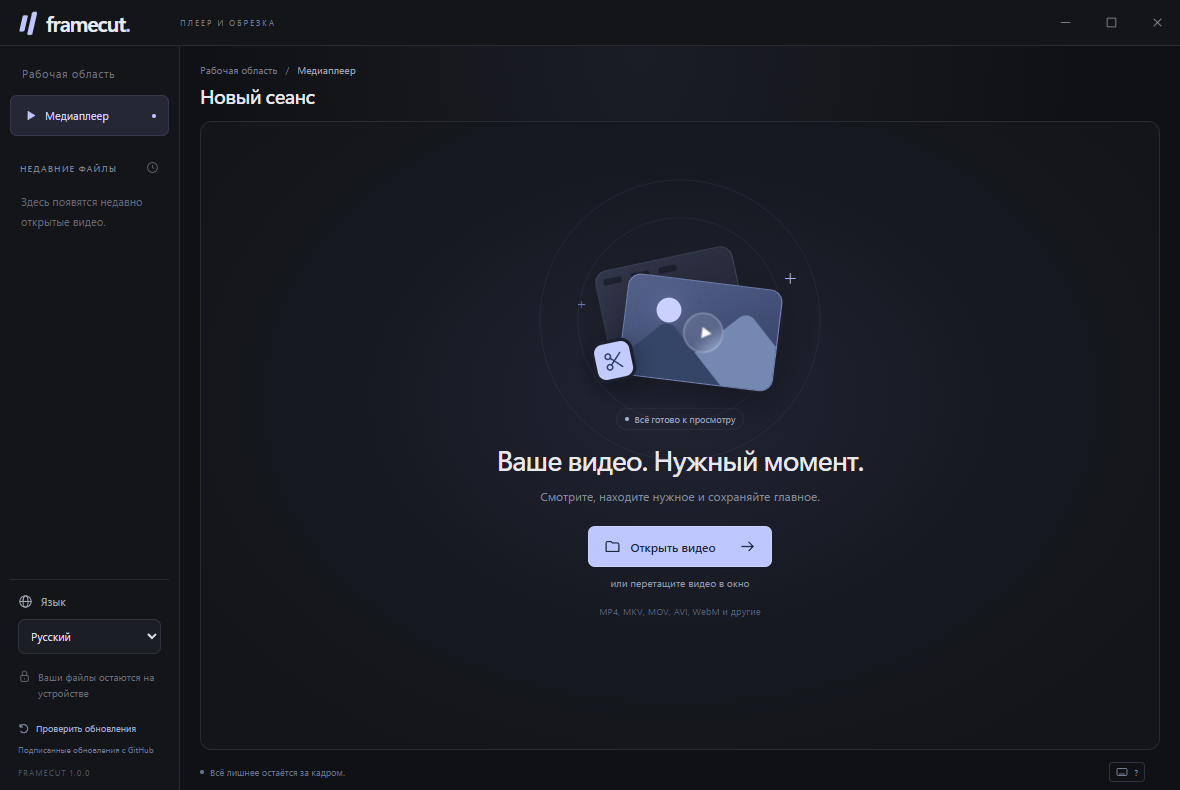
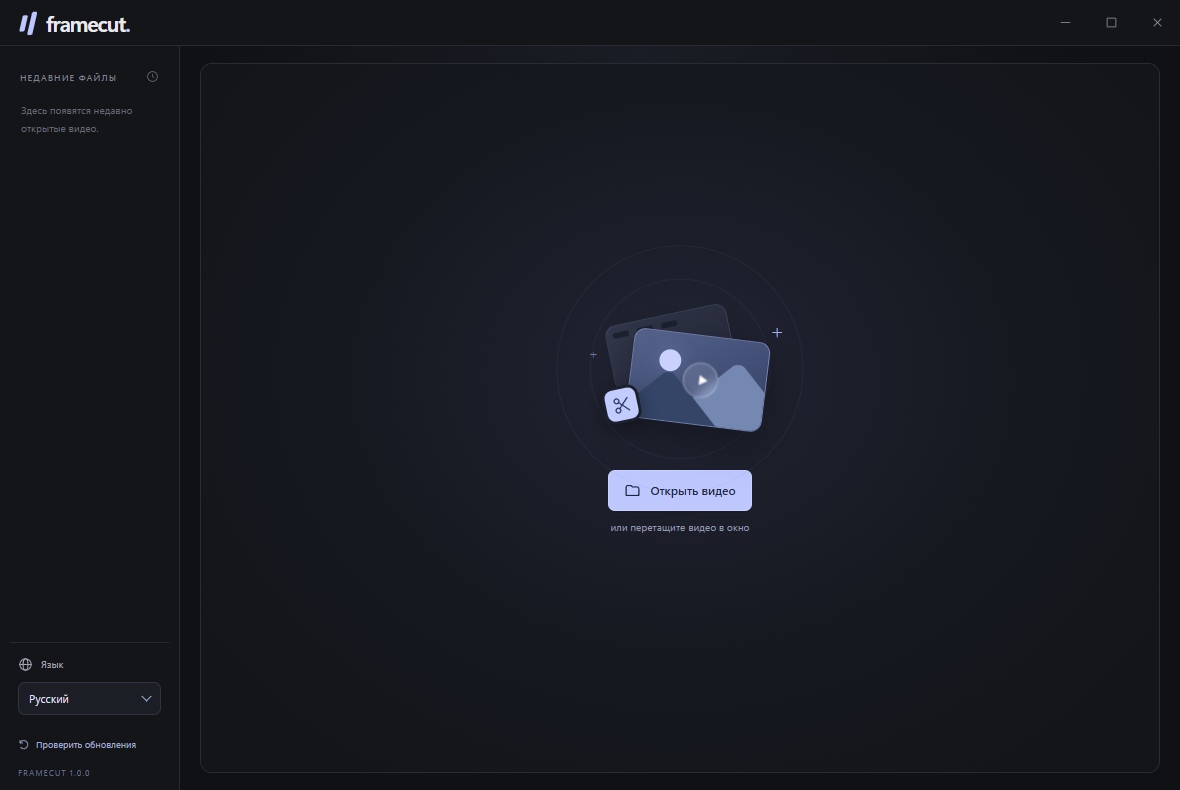
Compact editing toolbar, default fast cut and safe source overwrite

diff --git a/src/renderer/styles.css b/src/renderer/styles.css
@@ -20,3 +20,9 @@ body.fullscreen .titlebar,body.fullscreen .sidebar,body.fullscreen .workspace-he
 .titlebar{height:46px}.titlebar .brand{font-size:21px;width:180px;padding-left:20px}.brand-mark{transform:scale(.86) skew(-13deg)}.titlebar-caption{font-size:8px;letter-spacing:1.8px}.app-layout{height:calc(100vh - 46px);grid-template-columns:180px 1fr}.sidebar{padding:20px 10px 12px}.main{padding:17px 20px 8px;gap:12px}.workspace-header h1{font-size:20px}.breadcrumb{margin-bottom:6px}.workspace-grid{grid-template-columns:minmax(0,1fr) 250px;gap:12px;min-height:270px}.trim-panel{padding:16px 14px;scrollbar-gutter:stable}.trim-heading{margin-bottom:16px}.trim-heading h2{font-size:14px}.trim-heading p{display:none}.trim-icon{width:29px;height:29px;border-radius:7px}.time-field{margin-bottom:9px}.time-field label{margin-bottom:5px}.time-input-wrap input{padding:8px 10px;font-size:12px}.duration-row{padding:1px 0 12px}.mode-option{padding:6px 0}.mode-option small{margin-top:3px}.mode-option strong{font-size:11px}#mode-fields{margin-top:15px}.export-area{padding-top:15px}.export-area p{margin-top:8px;font-size:8px;line-height:1.55}.export-button{min-height:36px;font-size:11px;white-space:normal}.timeline-panel{padding:11px 14px 10px}.timeline-track{height:42px}.timeline-ruler{margin:9px 7px 7px}.timeline-footer{margin-top:9px}.timeline-heading .button{min-height:27px}.transport{padding:10px 14px}.transport-row{margin-top:8px}.empty-state h2{font-size:24px}.empty-visual{height:132px;transform:scale(.9);margin:0 0 10px}.formats{margin-top:15px}.empty-description{max-width:360px;margin-bottom:20px}.sidebar-bottom{padding-top:14px}.privacy-note{margin-top:15px}.app-version{margin:10px 0 0;font-size:8px;letter-spacing:1px}.recent-section{margin-top:25px}.drop-overlay{top:46px}.statusbar{margin-top:-6px;min-height:20px}.empty .trim-panel,.empty .timeline-panel,.empty .transport,.empty #open-top{display:none}.empty .workspace-grid{grid-template-columns:1fr}.empty .player-shell{max-height:none}.empty .stage{min-height:300px}.empty .empty-visual{transform:scale(1.08);margin-bottom:22px}.empty .ready-pill{display:flex}.empty .empty-state h2{font-size:28px}.empty .empty-description{font-size:12px;max-width:500px}.empty .statusbar{margin-top:0}.update-control{display:flex;align-items:center;gap:3px;margin-top:15px}.update-button{display:flex;align-items:center;gap:6px;background:transparent;color:#a0acc9;font-size:9px;line-height:1.5;text-align:left;padding:6px 0}.update-button svg{width:12px;height:12px}.update-button.available{color:#ccd7ff;font-weight:600}.update-button.available svg{color:#d5defd}.update-button:hover{color:#e2eaff}.update-description{font-size:8px;line-height:1.6;color:#697793;margin-top:3px}.update-control .icon-button{width:20px;height:20px;margin-left:auto}.update-control .icon-button svg{width:11px;height:11px}#update-progress{height:3px;margin:5px 0}
 @media(max-height:720px){.main{padding-top:12px;gap:10px}.workspace-header h1{font-size:18px}.workspace-grid{min-height:235px}.trim-panel{padding-top:12px;padding-bottom:12px}.trim-heading{margin-bottom:11px}legend.eyebrow{margin-bottom:9px;font-size:8px}.time-field label{font-size:9px}.time-input-wrap input{padding-top:6px;padding-bottom:6px}.duration-row{padding-bottom:9px}#mode-fields{margin-top:10px}.mode-option{padding:4px 0}.mode-option small{font-size:8px}.export-area{padding-top:11px}.timeline-track{height:32px}.timeline-footer{font-size:8px}.fast-note{font-size:8px}.empty .empty-visual{transform:scale(.95);margin-bottom:15px}.privacy-note{font-size:9px}.update-control{margin-top:10px}}
 .play-button{appearance:none;padding:0;line-height:0;flex-shrink:0;display:grid;place-items:center}.play-button svg{display:block;width:20px;height:20px;margin:0;fill:currentColor;stroke:none}.play-button.playing svg{margin:0;fill:none;stroke:currentColor;stroke-width:2.4}
+.sr-only,#trim-fields legend{position:absolute;width:1px;height:1px;padding:0;margin:-1px;overflow:hidden;clip:rect(0,0,0,0);white-space:nowrap;border:0}.recent-section{margin-top:4px}.no-recent{font-size:10px;max-width:160px}.empty .workspace-header{display:none}.empty .empty-visual{transform:scale(.95);margin-bottom:35px}.empty .statusbar{display:none}.timeline-tag,.timeline-footer,.statusbar>span{display:none}.timeline-panel{padding-bottom:14px}.statusbar{position:absolute;right:20px;bottom:10px;min-height:0}.main{padding-bottom:33px}.empty .main{padding-bottom:17px}.trim-heading{margin-bottom:22px}.setting-row{display:flex;align-items:center;justify-content:space-between;gap:10px}.setting-row label{font-size:11px;color:#a5afc3}.setting-row select{min-width:100px;font-size:11px;padding:7px 10px}.save-options{display:flex;background:#12151c;border:1px solid #343b4c;border-radius:7px;padding:3px;margin-top:15px;gap:3px}.save-options label{position:relative;flex:1;min-width:0;text-align:center;cursor:pointer}.save-options input{position:absolute;opacity:0;inset:0;margin:0;cursor:pointer}.save-options span{font-size:10px;display:block;padding:8px 4px;border-radius:4px;color:#7e8ba7;white-space:nowrap}.save-options input:checked+span{background:#343e5b;color:#d8e2ff}.save-options input:focus-visible+span{outline:2px solid #aabaff;outline-offset:1px}.fast-note{padding:0;background:none;font-size:9px;color:#c1ab91;margin-top:9px}.export-area{padding-top:20px}.update-description:empty{display:none}.update-control{margin-top:17px}.language-label{font-size:10px}.section-label{font-size:9px}.app-version{color:#65718a}
+select,select::picker(select){appearance:base-select}select{display:flex;align-items:center;justify-content:space-between;gap:12px;transition:border-color .15s,background .15s}select:hover{border-color:#667399;background:#292f40}select:open{border-color:#a6baff;background:#252d43}select::picker-icon{content:'';display:block;width:6px;height:6px;border:solid #9caed6;border-width:0 1.5px 1.5px 0;transform:translateY(-2px) rotate(45deg);transition:transform .15s;margin-left:auto}select:open::picker-icon{transform:translateY(1px) rotate(225deg)}select::picker(select){background:#1d2330;border:1px solid #465372;border-radius:9px;box-shadow:0 10px 32px #0009;padding:4px;margin-top:5px;max-height:220px;min-width:anchor-size(width);color:#cbd7f0}select option{display:flex;align-items:center;gap:10px;min-height:31px;border-radius:5px;padding:7px 10px;background:transparent;font-size:11px;cursor:pointer;transition:background .12s}select option:hover,select option:focus{background:#303c58;color:#f0f4ff;outline:none}select option:checked{background:#364363;color:#e1e9ff}select option::checkmark{color:#bdceff;font-size:10px;order:1;margin-left:auto}#language{padding:8px 10px}#speed{width:61px;background:#252b39;border:1px solid #3c465d;border-radius:6px;padding:5px 8px;font-size:10px}#speed::picker(select){min-width:90px}.transport-row{gap:9px}
+.statusbar>span:first-child,.statusbar #metadata{display:none}
+.workspace-grid{display:block;min-height:240px}.player-shell{height:100%}.timeline-panel{padding:11px 14px 12px}.edit-bar{display:flex;align-items:flex-end;justify-content:space-between;gap:14px;margin-top:13px;padding-top:12px;border-top:1px solid #2b3343}#trim-fields{display:flex;align-items:flex-end;gap:12px;flex-shrink:0}.edit-bar .time-field{margin:0;width:143px}.edit-bar .time-field label{font-size:9px;margin-bottom:5px}.edit-bar .time-input-wrap input{font-size:11px;letter-spacing:0;padding:8px 7px}.edit-bar .mark-button{width:25px;height:27px}.edit-bar .mark-button svg{width:14px;height:14px}.clip-duration{font:10px Consolas,monospace;color:#8e9dbb;align-self:center;margin-top:15px;font-weight:400}.save-controls{display:flex;align-items:center;gap:9px;flex-shrink:0}#mode-fields{margin:0}#cut-mode{min-width:88px;padding:9px 9px;font-size:10px;height:35px}.save-cluster{display:flex;align-items:stretch;gap:0}.save-cluster #save-mode{border-radius:6px 0 0 6px;min-width:126px;font-size:10px;padding:9px 10px;border-right:0;background:#252d40;height:35px}.save-cluster .button{border-radius:0 6px 6px 0;min-height:35px;height:35px;font-size:11px;padding:8px 13px;min-width:117px;transform:none}.save-cluster .button svg{width:14px;height:14px}.save-cluster #save-mode:open{border-color:#a6baff}.transport-row{justify-content:center;position:relative}.playback-buttons{margin-right:0;position:absolute;left:50%;transform:translateX(-50%)}.volume-control{margin-right:auto}#speed{margin-left:auto}.empty .workspace-grid{display:block}.empty .stage{height:100%}.empty .player-shell{height:100%}.empty-state{gap:0}.timeline-track{height:43px}.timeline-heading{min-height:27px}.statusbar{bottom:9px}.workspace-header h1{font-size:19px}.main{gap:12px}.play-button{height:34px;width:34px}
+@media(max-width:1140px){.clip-duration{display:none}.edit-bar{gap:10px}#trim-fields{gap:9px}.edit-bar .time-field{width:132px}.save-controls{gap:7px}.save-cluster #save-mode{min-width:110px}.save-cluster .button{min-width:105px;padding-left:9px;padding-right:9px}#cut-mode{min-width:80px}}
+@media(max-width:1020px){.app-layout{grid-template-columns:160px 1fr}.main{padding-left:14px;padding-right:14px}.brand{width:160px}.edit-bar .time-field{width:124px}#trim-fields{gap:8px}.save-cluster #save-mode{min-width:105px;padding-left:7px;padding-right:7px}.save-cluster .button{min-width:95px;padding-left:8px;padding-right:8px;font-size:10px}.save-controls{gap:6px}#cut-mode{min-width:76px;padding-left:7px;padding-right:7px}.edit-bar{gap:8px}.timeline-panel{padding-left:12px;padding-right:12px}}

diff --git a/src/renderer/index.html b/src/renderer/index.html
@@ -37,7 +37,6 @@
 
   <header class="titlebar">
     <div class="brand"><span class="brand-mark"><i></i><i></i></span><span>framecut<span class="brand-dot">.</span></span></div>
-    <span class="titlebar-caption" data-i18n="appTag"></span>
     <div class="window-buttons">
       <button class="window-button" id="minimize" data-title="minimize"><svg><use href="#i-minus"/></svg></button>
       <button class="window-button" id="maximize" data-title="maximize"><svg><use href="#i-window"/></svg></button>
@@ -47,10 +46,6 @@
 
   <div class="app-layout">
     <aside class="sidebar">
-      <div class="sidebar-top">
-        <p class="eyebrow" data-i18n="workspace"></p>
-        <div class="nav-item active"><svg><use href="#i-play"/></svg><span data-i18n="player"></span><span class="nav-dot"></span></div>
-      </div>
       <div class="recent-section">
         <div class="section-label"><span data-i18n="recent"></span><svg><use href="#i-clock"/></svg></div>
         <div id="recent-files"></div>
@@ -59,7 +54,6 @@
       <div class="sidebar-bottom">
         <label class="language-label" for="language"><svg><use href="#i-globe"/></svg><span data-i18n="language"></span></label>
         <select id="language"><option value="en">English</option><option value="ru">Русский</option><option value="de">Deutsch</option><option value="es">Español</option></select>
-        <div class="privacy-note"><svg><use href="#i-lock"/></svg><span data-i18n="localOnly"></span></div>
         <div class="update-control"><button class="update-button" id="update-button"><svg><use href="#i-reset"/></svg><span id="update-button-text" data-i18n="checkUpdates"></span></button><button class="icon-button" id="cancel-update" data-title="cancelUpdate" hidden><svg><use href="#i-close"/></svg></button></div>
         <progress id="update-progress" max="1" value="0" hidden></progress><p class="update-description" id="update-description"></p>
         <span class="app-version">FRAMECUT <span id="version">1.0.0</span></span>
@@ -68,7 +62,7 @@
 
     <main class="main">
       <header class="workspace-header">
-        <div class="heading"><div class="breadcrumb"><span data-i18n="workspace"></span><span>/</span><span data-i18n="player"></span></div><h1 id="file-heading" data-i18n="session"></h1></div>
+        <div class="heading"><h1 id="file-heading" data-i18n="session"></h1></div>
         <button class="button secondary" id="open-top"><svg><use href="#i-plus"/></svg><span data-i18n="openVideo"></span><kbd>Ctrl O</kbd></button>
       </header>
 
@@ -84,12 +78,8 @@
                 <span class="scissor-bubble"><svg><use href="#i-scissors"/></svg></span>
                 <span class="spark spark-one">+</span><span class="spark spark-two">+</span>
               </div>
-              <p class="ready-pill"><span></span><span data-i18n="ready"></span></p>
-              <h2 data-i18n="emptyTitle"></h2>
-              <p class="empty-description" data-i18n="emptySubtitle"></p>
-              <button class="button primary" id="open-center"><svg><use href="#i-folder"/></svg><span data-i18n="openVideo"></span><svg class="button-arrow"><use href="#i-arrow"/></svg></button>
+              <button class="button primary" id="open-center"><svg><use href="#i-folder"/></svg><span data-i18n="openVideo"></span></button>
               <span class="drop-hint" data-i18n="dropHint"></span>
-              <span class="formats" data-i18n="formatHint"></span>
             </div>
             <div class="video-badge" id="video-badge" hidden><span></span><span id="video-resolution"></span></div>
             <div class="stage-message" id="stage-message" hidden><div class="spinner"></div><strong id="stage-message-title"></strong><p id="stage-message-hint"></p><progress id="preview-progress" max="1" value="0" hidden></progress><button class="button secondary small" id="cancel-open" data-i18n="cancel"></button></div>
@@ -105,21 +95,6 @@
           </div>
         </section>
 
-        <aside class="trim-panel">
-          <header class="trim-heading"><span class="trim-icon"><svg><use href="#i-scissors"/></svg></span><div><h2 data-i18n="trimVideo"></h2><p data-i18n="trimSubtitle"></p></div></header>
-          <fieldset id="trim-fields" disabled>
-            <legend class="eyebrow" data-i18n="selection"></legend>
-            <div class="time-field"><label for="in-time" data-i18n="start"></label><div class="time-input-wrap"><input id="in-time" value="00:00:00.000" spellcheck="false" autocomplete="off" inputmode="decimal" data-title="milliseconds"><button class="icon-button mark-button" id="mark-in" data-title="setStart"><svg><use href="#i-mark-in"/></svg></button></div></div>
-            <div class="time-field"><label for="out-time" data-i18n="end"></label><div class="time-input-wrap"><input id="out-time" value="00:00:00.000" spellcheck="false" autocomplete="off" inputmode="decimal" data-title="milliseconds"><button class="icon-button mark-button" id="mark-out" data-title="setEnd"><svg><use href="#i-mark-out"/></svg></button></div></div>
-            <div class="duration-row"><span data-i18n="selectedDuration"></span><strong id="clip-duration">00:00:00.000</strong></div>
-          </fieldset>
-          <fieldset id="mode-fields"><legend class="eyebrow" data-i18n="exportMode"></legend>
-            <label class="mode-option"><input type="radio" name="mode" value="precise" checked><span class="radio-dot"></span><span><strong data-i18n="precise"></strong><small data-i18n="preciseHint"></small></span></label>
-            <label class="mode-option"><input type="radio" name="mode" value="copy"><span class="radio-dot"></span><span><strong data-i18n="fast"></strong><small data-i18n="fastHint"></small></span></label>
-            <p class="fast-note" id="fast-note" data-i18n="fastNote" hidden></p>
-          </fieldset>
-          <div class="export-area"><button class="button primary export-button" id="export" disabled><svg><use href="#i-download"/></svg><span data-i18n="saveClip"></span></button><p><svg><use href="#i-lock"/></svg><span data-i18n="safeExport"></span></p></div>
-        </aside>
       </div>
 
       <section class="timeline-panel">
@@ -131,6 +106,16 @@
           <div class="playhead" id="playhead"><i></i></div>
           <button class="range-handle handle-in" id="in-handle" role="slider" aria-valuemin="0" aria-valuemax="0" aria-valuenow="0" data-label="inPoint" disabled><i></i><i></i></button>
           <button class="range-handle handle-out" id="out-handle" role="slider" aria-valuemin="0" aria-valuemax="0" aria-valuenow="0" data-label="outPoint" disabled><i></i><i></i></button>
+        </div>
+        <div class="edit-bar">
+          <fieldset id="trim-fields" disabled><legend class="sr-only" data-i18n="selection"></legend>
+            <div class="time-field"><label for="in-time" data-i18n="start"></label><div class="time-input-wrap"><input id="in-time" value="00:00:00.000" spellcheck="false" autocomplete="off" inputmode="decimal" data-title="milliseconds"><button class="icon-button mark-button" id="mark-in" data-title="setStart"><svg><use href="#i-mark-in"/></svg></button></div></div>
+            <div class="time-field"><label for="out-time" data-i18n="end"></label><div class="time-input-wrap"><input id="out-time" value="00:00:00.000" spellcheck="false" autocomplete="off" inputmode="decimal" data-title="milliseconds"><button class="icon-button mark-button" id="mark-out" data-title="setEnd"><svg><use href="#i-mark-out"/></svg></button></div></div>
+            <strong class="clip-duration" id="clip-duration" data-title="selectedDuration">00:00:00.000</strong>
+          </fieldset>
+          <div class="save-controls"><fieldset id="mode-fields"><legend class="sr-only" data-i18n="cutMode"></legend><select id="cut-mode" data-title="fastHint" data-label="cutMode"><option value="copy" data-i18n="cutFast" selected></option><option value="precise" data-i18n="cutPrecise"></option></select></fieldset>
+            <div class="save-cluster"><select id="save-mode" data-label="exportMode"><option value="new" data-i18n="newFile" selected></option><option value="overwrite" data-i18n="overwrite"></option></select><button class="button primary" id="export" disabled><svg><use href="#i-download"/></svg><span data-i18n="saveAction"></span></button></div>
+          </div>
         </div>
         <div class="timeline-footer"><span><span class="selection-dot"></span><span data-i18n="dragHandles"></span></span><span id="selection-times">00:00:00.000 — 00:00:00.000</span></div>
       </section>

diff --git a/src/renderer/renderer.js b/src/renderer/renderer.js
@@ -7,7 +7,7 @@ const { translate } = FramecutI18n;
 const { formatTime, parseTime, formatSize } = FramecutTime;
 const video = $('video');
 const state = { language: 'en', media: null, start: 0, end: 0, busy: false, exporting: false,
-  previewing: false, converting: false, mode: 'precise', recent: [], fallbackTried: false,
+  previewing: false, converting: false, mode: 'copy', saveMode: 'new', replacing: false, recent: [], fallbackTried: false,
   statusKey: 'footer', thumbnailAbort: null, toastTimer: null, volumeTimer: null, initialized: false, update: { status: 'idle' } };
 const t = (key, values) => translate(state.language, key, values);
 const clamp = (value, min, max) => Math.max(min, Math.min(max, value));
@@ -84,6 +84,7 @@ function updateEnabled() {
   for (const id of ['play', 'back', 'forward', 'seek', 'fullscreen', 'reset', 'preview', 'in-handle', 'out-handle']) $(id).disabled = !available;
   $('trim-fields').disabled = !available;
   $('mode-fields').disabled = state.exporting;
+  $('save-mode').disabled = state.exporting;
   $('export').disabled = !available || state.end - state.start < 0.0399;
   $('open-top').disabled = state.busy || state.exporting;
   $('open-center').disabled = state.busy || state.exporting;
@@ -154,8 +155,9 @@ function renderUpdate(update) {
   $('cancel-update').hidden = status !== 'downloading';
   $('update-progress').hidden = status !== 'downloading';
   $('update-progress').value = update.progress || 0;
-  const descriptions = { idle: 'updateIdle', current: 'updateCurrent', available: 'updateAvailable', ready: 'updateReady', error: 'updateError' };
+  const descriptions = { available: 'updateAvailable', ready: 'updateReady' };
   $('update-description').textContent = descriptions[status] ? t(descriptions[status], { version: update.version }) : '';
+  $('update-button').title = status === 'error' ? t('updateError') : status === 'current' ? t('updateCurrent') : '';
 }
 
 function updateSelection() {
@@ -179,7 +181,9 @@ function updateSelection() {
     $(id).setAttribute('aria-valuetext', formatTime(time, true));
   }
   $('ruler').querySelectorAll('span').forEach((span, index) => { span.textContent = formatTime(duration * index / 5).replace(/^00:/, ''); });
-  $('fast-note').hidden = state.mode !== 'copy';
+  $('export').querySelector('span').textContent = t(state.saveMode === 'overwrite' ? 'overwriteAction' : 'saveAction');
+  title($('save-mode'), state.saveMode === 'overwrite' ? 'overwriteHint' : 'newFile');
+  title($('cut-mode'), state.mode === 'copy' ? 'fastHint' : 'preciseHint');
   $('export').disabled = !state.media || state.busy || state.exporting || state.end - state.start < 0.0399;
 }
 
@@ -271,8 +275,10 @@ async function exportSelection() {
   video.pause(); state.previewing = false; state.exporting = true;
   updateEnabled(); updateTransport();
   try {
-    const result = unwrap(await api.exportClip({ id: state.media.id, start: state.start, end: state.end, mode: state.mode }));
+    const result = unwrap(await api.exportClip({ id: state.media.id, start: state.start, end: state.end, mode: state.mode, saveMode: state.saveMode }));
     if (result.cancelled) { $('export-dialog').close(); return; }
+    state.replacing = false;
+    if (result.updatedMedia) { state.exporting = false; await useMedia(result.updatedMedia); }
     $('export-title').textContent = t('complete');
     $('export-subtitle').textContent = `${result.name} · ${formatTime(result.duration, true)} · ${formatSize(result.size, state.language)}`;
     $('export-progress-wrap').hidden = true;
@@ -331,9 +337,12 @@ $('preview').addEventListener('click', async () => {
   }
   updateTransport();
 });
-document.querySelectorAll('input[name=mode]').forEach(input => input.addEventListener('change', () => {
-  state.mode = input.value; updateSelection(); api.setPreferences({ mode: state.mode });
-}));
+$('cut-mode').addEventListener('change', event => {
+  state.mode = event.target.value; updateSelection(); api.setPreferences({ mode: state.mode });
+});
+$('save-mode').addEventListener('change', event => {
+  state.saveMode = event.target.value; updateSelection(); api.setPreferences({ saveMode: state.saveMode });
+});
 $('export').addEventListener('click', exportSelection);
 $('cancel-export').addEventListener('click', () => { $('cancel-export').disabled = true; api.cancelExport(); });
 $('done-export').addEventListener('click', () => $('export-dialog').close());
@@ -393,7 +402,7 @@ video.addEventListener('pause', updateTransport);
 video.addEventListener('ended', () => { state.previewing = false; updateTransport(); });
 video.addEventListener('loadedmetadata', () => { video.playbackRate = Number($('speed').value); updateEnabled(); updatePosition(); drawThumbnails(video.src); });
 video.addEventListener('error', () => {
-  if (state.converting || !state.media || !video.getAttribute('src')) return;
+  if (state.converting || state.replacing || !state.media || !video.getAttribute('src')) return;
   if (!state.fallbackTried) convertPreview();
   else toast('playbackError', true);
 });
@@ -433,6 +442,11 @@ window.addEventListener('keydown', event => {
 });
 
 api.onEvent(message => {
+  if (message.type === 'source-replacing') {
+    state.replacing = true; state.thumbnailAbort?.abort(); video.pause(); video.removeAttribute('src'); video.load();
+    api.releaseSource();
+  }
+  if (message.type === 'source-restore') { state.replacing = false; video.src = state.media.url; video.load(); }
   if (message.type === 'update-state') renderUpdate(message.state);
   if (message.type === 'loading') { video.pause(); setBusy(true); }
   if (message.type === 'recent') { state.recent = message.items; renderRecent(); }
@@ -452,10 +466,11 @@ api.onEvent(message => {
 (async () => {
   try {
     const data = unwrap(await api.bootstrap());
-    state.recent = data.recent; state.mode = data.mode;
+    state.recent = data.recent; state.mode = data.mode; state.saveMode = data.saveMode || 'new';
     $('version').textContent = data.version;
     $('volume').value = data.volume; video.volume = data.volume;
-    document.querySelector(`input[name=mode][value="${data.mode}"]`).checked = true;
+    $('cut-mode').value = state.mode;
+    $('save-mode').value = state.saveMode;
     state.update = data.update || { status: 'idle' };
     applyLanguage(data.language); updateEnabled(); state.initialized = true;
   } catch (error) { reportError(error); }

diff --git a/src/shared/i18n.js b/src/shared/i18n.js
@@ -173,6 +173,13 @@
       updateRetry: 'Reintentar actualización', updateDev: 'Instala la aplicación para actualizar automáticamente', updateInstalling: 'Instalando…' }
   };
   for (const language of Object.keys(dictionaries)) Object.assign(dictionaries[language], updateStrings[language]);
+  const editingStrings = {
+    en: { cutMode: 'Cut', cutFast: 'Fast', cutPrecise: 'Precise', newFile: 'New file', overwrite: 'Overwrite', overwriteHint: 'Replaces the original file.', overwriteAction: 'Overwrite', saveAction: 'Save' },
+    ru: { cutMode: 'Обрезка', cutFast: 'Быстрая', cutPrecise: 'Точная', newFile: 'Новый файл', overwrite: 'Перезапись', overwriteHint: 'Исходный файл будет заменён.', overwriteAction: 'Перезаписать', saveAction: 'Сохранить' },
+    de: { cutMode: 'Schnitt', cutFast: 'Schnell', cutPrecise: 'Präzise', newFile: 'Neue Datei', overwrite: 'Ersetzen', overwriteHint: 'Die Originaldatei wird ersetzt.', overwriteAction: 'Ersetzen', saveAction: 'Speichern' },
+    es: { cutMode: 'Corte', cutFast: 'Rápido', cutPrecise: 'Preciso', newFile: 'Nuevo archivo', overwrite: 'Sobrescribir', overwriteHint: 'Reemplaza el archivo original.', overwriteAction: 'Sobrescribir', saveAction: 'Guardar' }
+  };
+  for (const language of Object.keys(dictionaries)) Object.assign(dictionaries[language], editingStrings[language]);
   function normalizeLanguage(language) {
     const code = String(language || '').toLowerCase().split(/[-_]/)[0];
     return Object.hasOwn(dictionaries, code) ? code : 'en';

diff --git a/README.md b/README.md
@@ -1,6 +1,6 @@
 # Framecut
 
-Простой медиаплеер для Windows с обрезкой видео. Откройте файл, выберите начало и конец фрагмента и сохраните результат. Все операции выполняются локально.
+Простой медиаплеер для Windows с обрезкой видео. Откройте файл, выберите начало и конец и сохраните фрагмент в новый файл или перезапишите исходный. Все операции с видео выполняются локально.
 
 **Русский · English · Deutsch · Español** — переключение языка без перезапуска, с запоминанием выбора. При первом запуске язык определяется по системе; для остальных языков используется английский.
 
@@ -21,7 +21,8 @@ Windows 10/11, 64 бита. Node.js и отдельно установленны
 - Воспроизведение, перемотка, громкость, отключение звука, скорость 0,25–3× и полный экран.
 - Шкала с кадрами, перетаскиваемые границы и точный ввод времени в миллисекундах.
 - Просмотр только выделенного фрагмента перед сохранением.
-- Точная обрезка в MP4 / H.264 / AAC или быстрая обрезка без перекодирования.
+- Быстрая обрезка без перекодирования по умолчанию; точная выбирается в компактном списке.
+- Два режима сохранения: новый файл и перезапись исходного.
 - Прогресс экспорта, отмена, открытие папки с результатом.
 - Запоминание языка, громкости и режима экспорта.
 - Компактное окно, тонкие скроллбары в цвет темы и один основной путь: открыть → выбрать фрагмент → сохранить.
@@ -35,13 +36,13 @@ Windows 10/11, 64 бита. Node.js и отдельно установленны
 
 Portable-версия обнаруживает обновления и открывает страницу нового релиза для ручной замены файла. Автоматическая установка с перезапуском предназначена для версии, установленной через NSIS. Проверка и скачивание обновлений обращаются к GitHub; видеофайлы туда не отправляются.
 
-Точная обрезка перекодирует выбранный фрагмент, сохраняет разрешение и использует CRF 18. Нечётные размеры округляются вниз до чётных, как требуется для YUV 4:2:0. Временная граница ограничена кадрами и аудиосэмплами исходника. Быстрая обрезка сохраняет кодеки и работает по ключевым кадрам: начало и длительность могут отличаться от выделения. Минимальная длина выделения — 0,04 секунды.
+Быстрая обрезка выбрана по умолчанию. Она сохраняет кодеки и работает по ключевым кадрам: начало и длительность могут отличаться от выделения. Точная обрезка перекодирует выбранный фрагмент; при создании нового файла используется MP4 / H.264 / AAC с CRF 18. При перезаписи сохраняется контейнер исходника с совместимыми кодеками: например, VP9/Opus для WebM и H.264/AAC для MP4/MKV/MOV. Нечётные размеры округляются вниз до чётных для YUV 4:2:0. Временная граница ограничена кадрами и аудиосэмплами исходника. Минимальная длина выделения — 0,04 секунды.
 
 Поддерживаются распространённые контейнеры MP4, MKV, MOV, AVI, WebM, WMV и другие форматы, которые читает включённый FFmpeg. Если Chromium не воспроизводит кодек напрямую, приложение создаёт временную совместимую копию для просмотра. Подготовка больших файлов занимает время и место на диске; экспорт всегда выполняется из оригинала. Временные копии удаляются при обычном закрытии приложения. При аварийном завершении они могут остаться в системной временной папке `framecut-*`.
 
 Экспорт включает основную видеодорожку и аудиодорожки. Субтитры, вложения и дополнительные видеодорожки в обрезанный файл не входят. Для HDR и сложных цветовых профилей цветокоррекция при точной обрезке не предусмотрена; используйте быструю обрезку для сохранения исходного потока. Изображение при покадровой перемотке рассчитывается по средней частоте кадров; для видео с переменной частотой позиция может отличаться на кадр.
 
-Оригинал не перезаписывается: результат сначала сохраняется во временный файл рядом с выбранной папкой, проверяется и только затем заменяет согласованный файл назначения. При ошибке или отмене исходник и существующий результат остаются целыми.
+Режим сохранения находится непосредственно у кнопки **Сохранить** под шкалой. В режиме **Новый файл** оригинал не изменяется. В режиме **Перезапись** кнопка называется **Перезаписать**: результат сначала записывается во временный файл рядом с исходником, проверяется и только затем атомарно заменяет его. Плеер освобождает файл перед заменой и открывает уже обрезанное видео. При ошибке или отмене до замены исходник остаётся целым. Успешная перезапись не имеет команды отмены.
 
 ## Управление
 
@@ -86,9 +87,9 @@ Renderer работает в песочнице, без доступа к Node.j
 
 ## English
 
-Framecut is a Windows media player with video trimming. Open a video, drag the in/out handles or enter exact timecodes, preview the selection, and save a new clip. The original is protected. Playback includes seeking, volume, speed control and full screen.
+Framecut is a Windows media player with video trimming. Open a video, drag the in/out handles or enter exact timecodes, preview the selection, and save a new clip or explicitly overwrite the source. Playback includes seeking, volume, speed control and full screen.
 
-Choose **Precise cut** for H.264/AAC MP4 export, or **Fast cut** to retain the original streams with keyframe-based boundaries. Unsupported playback formats are converted to a temporary preview; export uses the original. Audio is retained, while subtitles and attachments are excluded. All processing stays on your computer. The interface supports English, Russian, German and Spanish.
+**Fast** is selected by default and retains the original streams with keyframe-based boundaries. Choose **Precise** for exact re-encoding. Saving has two separate modes: **New file** and **Overwrite**. Overwrites are staged, verified and atomically replaced, then reopened in the player. Unsupported playback formats are converted to a temporary preview; export uses the original. Audio is retained, while subtitles and attachments are excluded. All processing stays on your computer. The interface supports English, Russian, German and Spanish.
 
 The installed app checks for updates on startup and every six hours. Download updates from the sidebar, then install and restart with one click. Release manifests are authenticated with Ed25519 and installers are verified using SHA-256. The portable edition opens the latest release page for manual replacement. Video files are never uploaded.
 
